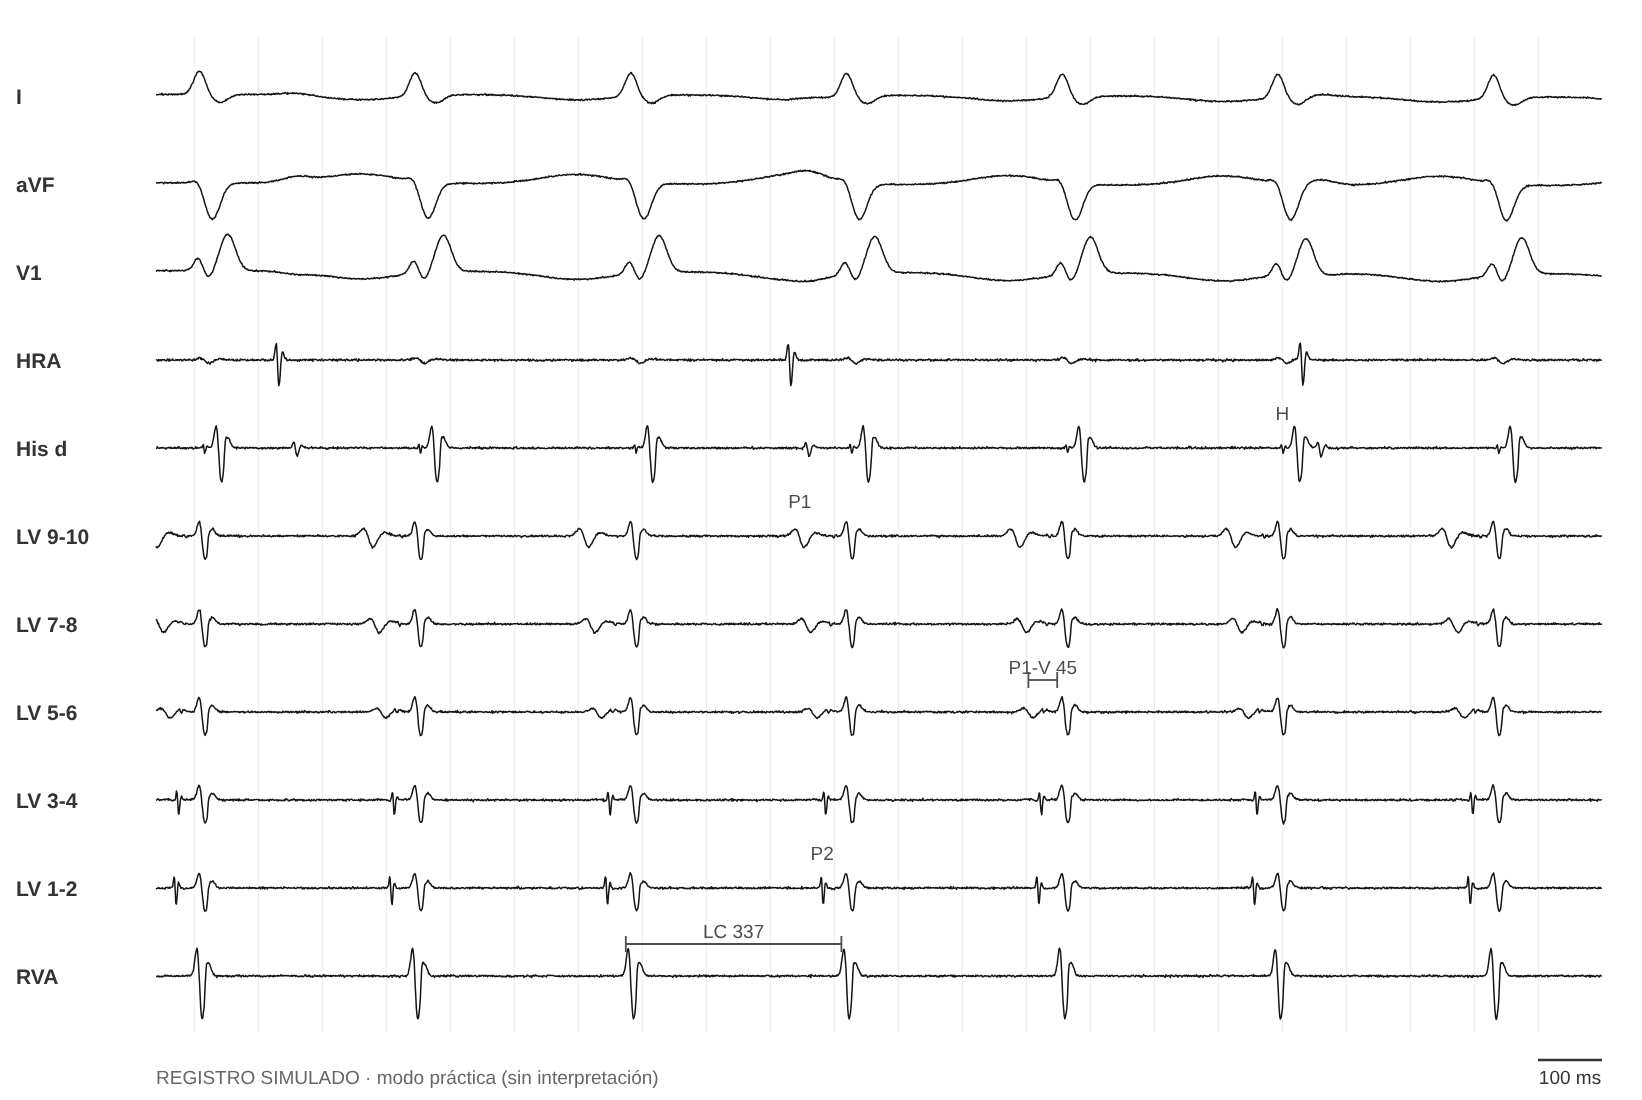
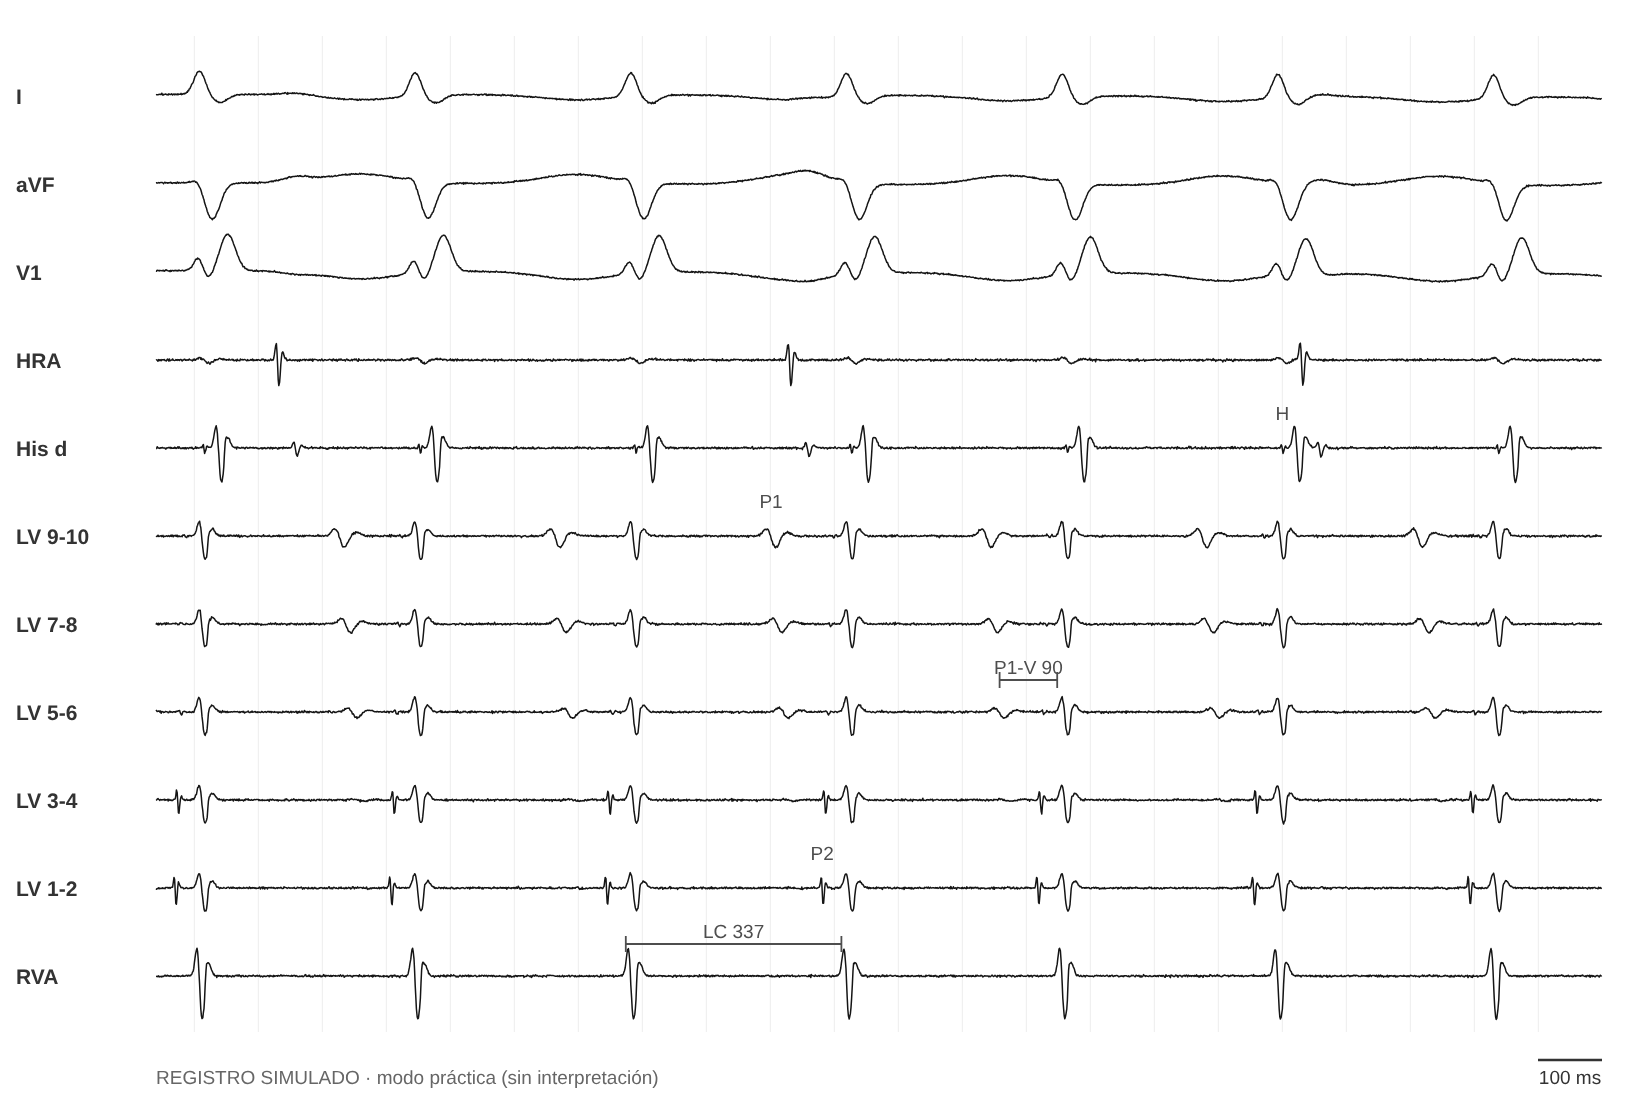
TV fascicular: P1 mesodiastólico, más separado de P2
Claude-Session: https://claude.ai/code/session_01Pw5rjt62KK5LeJZoEyFiaM

diff --git a/index.html b/index.html
@@ -1139,7 +1139,7 @@ const PCASOS = [
     dx: ['jet'], ex: 'Un EA precoz que adelanta el His inmediato sin cortar la taquicardia no es compatible con TRNAV (dejaría la vía rápida refractaria). Sin doble vía y sin conducción por la vía lenta en la sobreestimulación auricular, el diagnóstico es taquicardia de la unión.', refs: ['padanilam08', 'fan11', 'veen12'] },
   { id: 'c8', t: 'Taquicardia de QRS ancho que terminó con verapamilo', p: 'Varón de 17 años, corazón sano. En la guardia, una taquicardia de QRS ancho terminó con verapamilo.',
     h: ['Taquicardia de QRS 130 ms, BRD con eje superior, LC 337 ms', 'Disociación AV (más V que A)', 'His retrógrado 15 ms después del inicio del QRS'],
-    m: { map: { r: 'En el septum medio: P1 mesodiastólico (proximal → distal) y P2 presistólico (distal → proximal); P1-V 45 ms.', u: 'clave', img: 'figs/sim/prac/tvf_post.png' },
+    m: { map: { r: 'En el septum medio: P1 mesodiastólico (proximal → distal) y P2 presistólico (distal → proximal); P1-V 90 ms en el septum medio.', u: 'clave', img: 'figs/sim/prac/tvf_post.png' },
       verap: { r: 'Verapamilo 0,03 mg/kg alarga la LC; P1-P2 y P2-P1 se alargan y P2-QRS no cambia.', u: 'clave', img: 'figs/sim/prac/p8_verap.png' },
       vop: { r: 'Encarrilable desde el VD; el encarrilamiento captura P1 en forma ortodrómica.', u: 'util' },
       pre: { r: 'Se induce con estimulación auricular y ventricular programada.', u: 'util' },
@@ -1347,7 +1347,7 @@ const CASOS = [
     img: [{ src: 'figs/gardey2021_fig2.jpg', alt: 'Anatomía y propiedades de los nodos superior e inferior alrededor del parche de la CIV', cap: 'Figura 2: nodo superior (AH 80, HV 45, PRE 220, Wenckebach 270 ms) y nodo inferior (AH 70, HV 104, PRE 400, Wenckebach 420 ms) a cada lado del parche de la CIV; el asterisco marca el asa de Mönckeberg.', lic: 'Gardey K, Thevenard R, Joly H, Bessière F. <i>Eur Heart J Case Rep</i> 2021;5:ytab303, figura 2. Licencia <a href="https://creativecommons.org/licenses/by-nc/4.0/" target="_blank" rel="noopener noreferrer">CC BY-NC 4.0</a>.' },
       { src: 'figs/gardey2021_fig3.jpg', alt: 'Activación de los dos nodos durante la taquicardia', cap: 'Figura 3: durante la TSV baja por el nodo superior (A-H-V) y sube por el inferior (V-H-A), pasando por el asa.', lic: 'Gardey K, Thevenard R, Joly H, Bessière F. <i>Eur Heart J Case Rep</i> 2021;5:ytab303, figura 3. Licencia <a href="https://creativecommons.org/licenses/by-nc/4.0/" target="_blank" rel="noopener noreferrer">CC BY-NC 4.0</a>.' }],
     vals: [['Paciente', '15 años, TCGA, CIV cerrada con parche a los 3 años; TSV de RP largo incesante'], ['Ritmo sinusal', 'un solo QRS (mala conducción anterógrada del nodo inferior)'], ['TSV', 'baja por el nodo superior (AH 70, HV 47) y sube por el inferior (VH 133, HA 100 ms)'], ['Encarrilamiento desde los dos nodos', 'ambos en el circuito: descarta TA y TRNAV atípica'], ['Ablación del nodo inferior', 'desde el lado izquierdo de la CIV; sin recurrencia a 8 meses']] },
-  { m: 'tvf', ref: 'nogami10', fig: 'fig. 2', url: 'https://pubmed.ncbi.nlm.nih.gov/?term=Nogami+diagnosis+and+ablation+of+fascicular+tachycardia', t: 'P1 y P2 en la TV fascicular posterior', sim: 'figs/sim/tvf_post.png', simde: 'Liu Q 2023 (LC 337, P1-V 45), Liu 2015 (P2 ~30 ms antes del QRS) y Nogami 2010 (His 5–30 ms después del QRS)',
+  { m: 'tvf', ref: 'nogami10', fig: 'fig. 2', url: 'https://pubmed.ncbi.nlm.nih.gov/?term=Nogami+diagnosis+and+ablation+of+fascicular+tachycardia', t: 'P1 y P2 en la TV fascicular posterior', sim: 'figs/sim/tvf_post.png', simde: 'Liu Q 2023 (LC 337), Liu 2015 (P2 ~30 ms antes del QRS) y Nogami 2010 (His 5–30 ms después del QRS); el P1-V de 90 ms es ilustrativo',
     vals: [['Serie', '20 pacientes; P1 y P2 registrados en 15'], ['Durante la TV', 'P1 de proximal a distal; P2 de distal a proximal; His 5–30 ms después del QRS'], ['En sinusal', 'P2 antes del QRS y después del His'], ['Experiencia del autor', '76 posteriores (éxito 97 %, recurrencia 4 %), 12 anteriores (92 %, 8 %), 2 septales superiores (100 %, 0 %)']] },
   { m: 'tvfabl', ref: 'liu15', fig: '', doi: '10.1161/CIRCEP.115.003080', t: 'Seguimiento de 120 ablaciones',
     vals: [['Población', '29 años promedio, 82 % varones, FEVI normal; 118 posteriores, 2 anteriores'], ['Blanco', 'Purkinje presistólico más precoz (30 ms antes del QRS)'], ['Resultado', 'éxito agudo 117/120; sin recurrencia ni drogas con un procedimiento: 80 % a 4,6 años'], ['Recurrencias', '17 por el mismo fascículo; 6 TV septales superiores nuevas']] },

diff --git a/sw.js b/sw.js
@@ -1,6 +1,6 @@
 // Permite instalar la app y abrirla sin conexión. Primero la red (siempre lo último publicado); si no hay, la copia.
 // Si cambiás un archivo, subí CACHE_VERSION.
-const CACHE_VERSION = 'mef-v46';
+const CACHE_VERSION = 'mef-v47';
 const ARCHIVOS = ['./', './index.html', './manifest.json', './iconos/icon-192.png', './iconos/icon-512.png'];
 self.addEventListener('install', e => e.waitUntil(caches.open(CACHE_VERSION).then(c => c.addAll(ARCHIVOS)).then(() => self.skipWaiting())));
 self.addEventListener('activate', e => e.waitUntil(caches.keys().then(ks => Promise.all(ks.filter(k => k !== CACHE_VERSION).map(k => caches.delete(k)))).then(() => self.clients.claim())));

diff --git a/herramientas/simulador/cases2.py b/herramientas/simulador/cases2.py
@@ -97,25 +97,25 @@ S['gardey21'] = dict(win=(-60, 2300), pxms=0.30, src='intervalos de Gardey 2021,
     cal=[(As[1], hsup[1], 'Nodo sup.', 'AH 70'), (hsup[4], vs[4] + 4, 'Nodo sup.', 'HV 47'),
          (vs[2] + 4, hinf[2], 'Nodo inf.', 'VH 133'), (hinf[4], hinf[4] + 100, 'Nodo inf.', 'HA 100')])
 
-# G. TV fascicular posterior: LC 337 y P1-V 45 (Liu Q 2023); P2 ~30 ms antes del QRS (Liu 2015); His 5–30 ms después
+# G. TV fascicular posterior: LC 337 (Liu Q 2023); P1 mesodiastólico (P1-V 90 en LV 5-6, ilustrativo); P2 ~30 ms antes del QRS (Liu 2015); His 5–30 ms después
 #    del inicio del QRS (Nogami 2010); disociación AV con ritmo sinusal independiente.
 LC = 337
 vs = [i * LC for i in range(7)]
 lv = ['LV 9-10', 'LV 7-8', 'LV 5-6', 'LV 3-4', 'LV 1-2']
 ext = {}
 for i, n in enumerate(lv):  # 0 = proximal, 4 = distal
-    p1 = [v - 65 + 10 * i for v in vs]          # P1: proximal → distal; P1-V 45 en el canal medio (LV 5-6)
+    p1 = [v - 110 + 10 * i for v in vs]         # P1 mesodiastólico: proximal → distal; P1-V 90 en LV 5-6 (ilustrativo)
     p2 = [v - 14 - 4 * i for v in vs]          # P2: distal → proximal; ~30 ms antes del QRS en el distal
     a1 = [0.40, 0.30, 0.21, 0.04, 0.02][i]   # P1 domina en los 3 proximales y se achica; casi ausente en los distales
     a2 = [0.05, 0.07, 0.09, 0.50, 0.62][i]   # P2 casi no se ve en los proximales; visible en los 2 distales
     ext[n] = [(t, a1, 3.2) for t in p1] + [(t, a2, 0.7) for t in p2]   # P1 romo y ondulado; P2 agudo
 sinus = [130, 930, 1730]
-S['tvf_post'] = dict(win=(-60, 2200), pxms=0.32, src='intervalos de Liu Q 2023 (LC 337, P1-V 45), Liu 2015 y Nogami 2010',
+S['tvf_post'] = dict(win=(-60, 2200), pxms=0.32, src='Liu Q 2023 (LC 337), Liu 2015 (P2 ~30 ms antes del QRS) y Nogami 2010; P1-V 90 ilustrativo',
     channels=['HRA', 'His d'] + lv + ['RVA'],
     beats=[(v, 'rbs') for v in vs], atr=[(a, 'sinus', 1) for a in sinus], h_retro=[v + 15 for v in vs],
     extra=ext,
-    cal=[(vs[2], vs[3], 'RVA', 'LC 337'), (vs[4] - 45, vs[4], 'LV 5-6', 'P1-V 45')],
-    marks=[(vs[3] - 65, 'LV 9-10', 'P1'), (vs[3] - 30, 'LV 1-2', 'P2'), (vs[5] + 15, 'His d', 'H')])
+    cal=[(vs[2], vs[3], 'RVA', 'LC 337'), (vs[4] - 90, vs[4], 'LV 5-6', 'P1-V 90')],
+    marks=[(vs[3] - 110, 'LV 9-10', 'P1'), (vs[3] - 30, 'LV 1-2', 'P2'), (vs[5] + 15, 'His d', 'H')])
 
 # H. Burri 2012: doble disparo nodal. 134 lpm con RR levemente alternantes y relación P:QRS 1:2 (A-A ≈ 896).
 #    Publicado: frecuencia, relación 1:2 y secuencia sinusal. Ilustrativos: AH1 90, H1-H2 430 (rango de Peiker 2016: 265-520).

diff --git a/PENDIENTES.md b/PENDIENTES.md
@@ -24,7 +24,7 @@ En todos conviene mirar las amplitudes y la morfología del QRS, la visibilidad 
 - [ ] [ver](https://drsebastianmaldonado.github.io/Maniobras-EEF/figs/sim/veen12_eav.png) **Veenhuyzen 2012, fig. 6** (EA con His refractario en la TRNAV): 4 latidos de base, H-H 412 y H-H 428 (+16).
 - [ ] [ver](https://drsebastianmaldonado.github.io/Maniobras-EEF/figs/sim/veen12_jt.png) **Veenhuyzen 2012, fig. 7** (taquicardia de la unión): dos paneles. A: EA con His refractario desde el ostium del SC que no modifica el His siguiente (ilustrativo, criterio de Padanilam 2008). B: EA precoz desde la AD alta que adelanta el His inmediato 38 ms y la taquicardia sigue (publicado).
 - [ ] [ver](https://drsebastianmaldonado.github.io/Maniobras-EEF/figs/sim/gardey21.png) **Gardey 2021** (nodos gemelos): canales "Nodo sup.", "Nodo inf." y "AD lateral".
-- [ ] [ver](https://drsebastianmaldonado.github.io/Maniobras-EEF/figs/sim/tvf_post.png) **TV fascicular posterior**: P1 dominante en los 3 canales proximales (decreciente) y P2 en los 2 distales; P1-V 45 en LV 5-6. Combina Liu Q 2023, Liu 2015 y Nogami 2010.
+- [ ] [ver](https://drsebastianmaldonado.github.io/Maniobras-EEF/figs/sim/tvf_post.png) **TV fascicular posterior**: P1 dominante en los 3 canales proximales (decreciente) y P2 en los 2 distales; P1 romo y mesodiastólico (P1-V 90 en LV 5-6, ilustrativo; Liu Q 2023 informa P1-V 45 en el sitio de ablación). Combina Liu Q 2023, Liu 2015 y Nogami 2010.
 - [ ] [ver](https://drsebastianmaldonado.github.io/Maniobras-EEF/figs/sim/burri12.png) **Burri 2012** (doble disparo): el AH1 (90 ms) y el H1–H2 (430 ms) son ilustrativos.
 - [ ] [ver](https://drsebastianmaldonado.github.io/Maniobras-EEF/figs/sim/michaud01.png) **Michaud 2001** (SA−VA): publicados estimulación a 440, SA−VA 40 y PPI−LC 80; la LC 470 y el VA 120 son míos. También en el caso 2.
 - [ ] [ver](https://drsebastianmaldonado.github.io/Maniobras-EEF/figs/sim/parahis.png) **Veenhuyzen 2012, fig. 3** (para-Hisiana): publicado el Δ 61 ms; el SA 90 es mío.
